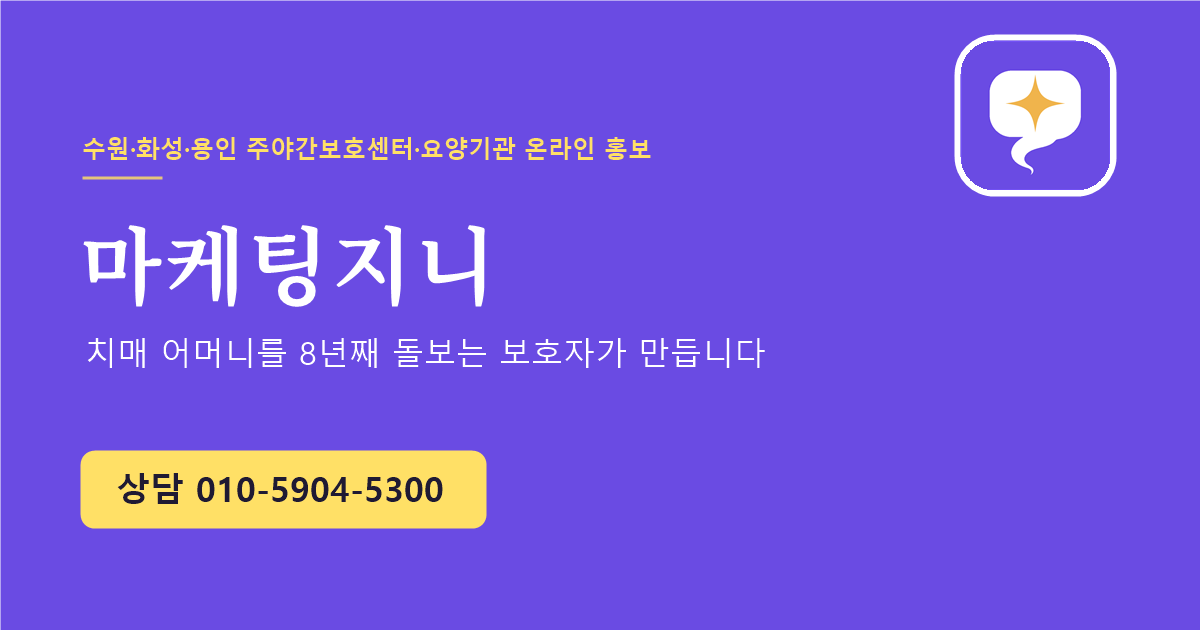
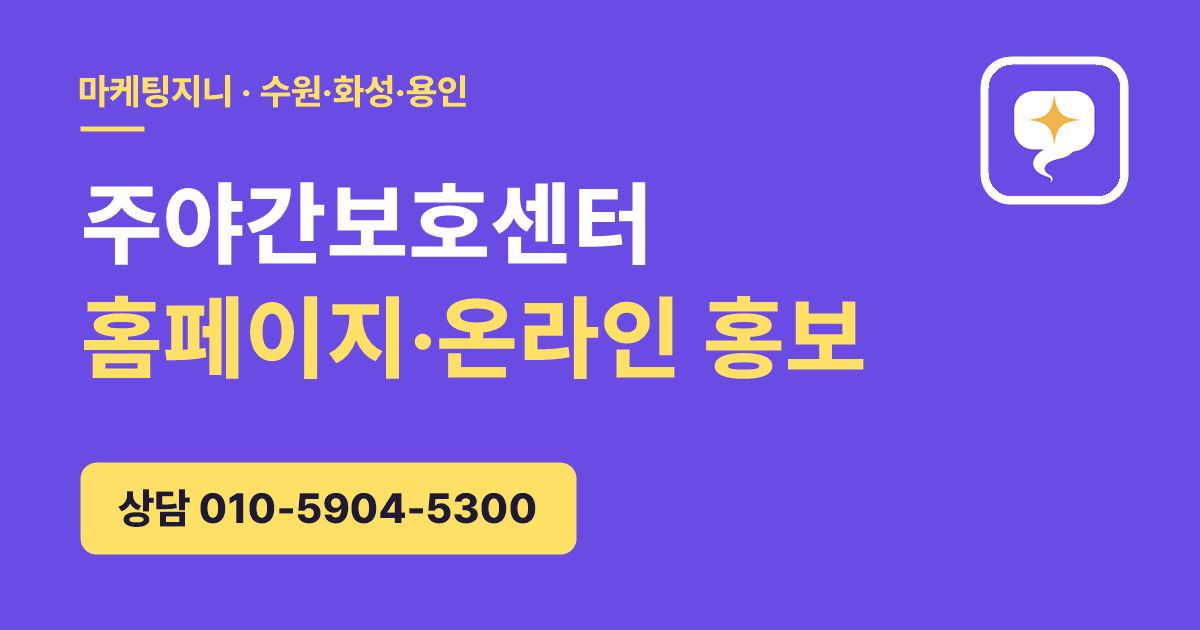
무료 수정 조건 통일(수가·식비 변경 1년 1회, 관리하는 동안 무료), 샘플 8가지 컨셉 문구, 카톡 미리보기 큰 글자판, 작업 노트 전체 보기 위치

Changed region(s): [[0.0617, 0.1206, 0.74, 0.6032], [0.0617, 0.6937, 0.4933, 0.9048], [0.7708, 0.0302, 0.9558, 0.3317]]

diff --git a/index.html b/index.html
@@ -9,11 +9,11 @@
 <link rel="icon" type="image/png" href="logo.png">
 <link rel="apple-touch-icon" href="logo.png">
 <meta name="description" content="수원·화성·용인 주야간보호센터·요양기관 온라인 홍보. 요양보호사 출신이자 치매 어머니를 8년째 돌보는 보호자인 마케터가 센터의 블로그·네이버 플레이스·홈페이지를 함께 정리합니다.">
-<!-- 카카오톡·문자로 링크를 보낼 때 보이는 미리보기 (2026-11-25 새 디자인: 보라 단색 og.png — 그림을 바꾸면 ?v= 날짜도 바꿉니다) -->
+<!-- 카카오톡·문자로 링크를 보낼 때 보이는 미리보기 (2026-11-26 큰 글자판: 보라 단색에 하는 일 두 줄 크게 — 홈페이지 폴더 make-og-main-big.ps1로 만듦, 2026-11-25 새 디자인: 보라 단색 og.png — 그림을 바꾸면 ?v= 날짜도 바꿉니다) -->
 <meta property="og:type" content="website">
 <meta property="og:url" content="https://marketingjini.com/">
-<meta property="og:image" content="https://marketingjini.com/og.png?v=20261125">
-<meta property="og:image:secure_url" content="https://marketingjini.com/og.png?v=20261125">
+<meta property="og:image" content="https://marketingjini.com/og.png?v=20261126">
+<meta property="og:image:secure_url" content="https://marketingjini.com/og.png?v=20261126">
 <meta property="og:image:type" content="image/png">
 <meta property="og:image:width" content="1200">
 <meta property="og:image:height" content="630">
@@ -491,7 +491,8 @@
   font-size: clamp(22px, 6vw, 30px); line-height: 1.45; letter-spacing: -.02em;
 }
 #jini .note a:hover .note-title, #jini .note a:focus-visible .note-title { text-decoration: underline; text-decoration-thickness: 2px; text-underline-offset: 6px; }
-#jini .notes-all { margin-top: 32px; font-size: 19px; }
+#jini .notes-head { display: flex; flex-wrap: wrap; align-items: flex-end; justify-content: space-between; gap: 14px 32px; }
+#jini .notes-all { margin: 0; font-size: 19px; white-space: nowrap; }
 /* 더보기 대신 + 버튼 (2026-11-26 사용자 의견, 자주 묻는 질문의 + 와 같은 모양) */
 #jini .note-go { flex: none; display: grid; place-items: center; width: 46px; height: 46px; border: 2px solid var(--ink); border-radius: 50%; background: var(--white); font-family: 'Noto Serif KR', serif; font-size: 28px; font-weight: 700; line-height: 1; color: var(--violet); transition: background-color .15s, color .15s; }
 #jini .note a:hover .note-go, #jini .note a:focus-visible .note-go { background: var(--violet); border-color: var(--violet); color: var(--white); }
@@ -754,7 +755,7 @@
       {"@type": "Question", "name": "도메인과 블로그·플레이스 계정은 누구 이름으로 하나요? 비밀번호를 알려 드려야 하나요?", "acceptedAnswer": {"@type": "Answer", "text": "블로그·플레이스는 센터가 지금 쓰는 계정을 그대로 쓰고, 도메인도 센터 이름으로 사시도록 안내해 드려요. 플레이스는 네이버의 공식 매니저 초대 기능으로 함께 관리할 수 있어 비밀번호를 받지 않아도 돼요. 홈페이지를 어디에 두고 누가 관리할지, 나중에 넘겨받는 방법은 시작 전에 문서로 정해 드립니다."}},
       {"@type": "Question", "name": "홍보 글 문구가 법에 걸리지는 않나요?", "acceptedAnswer": {"@type": "Answer", "text": "본인부담금을 면제하거나 깎아 주는 것은 노인장기요양보험법 제35조에서 금지하고 있어, 그렇게 읽힐 수 있는 문구는 쓰지 않아요. ‘최고·1위·보장’ 같은 과장 표현도 넣지 않고, 올리기 전에 센터장님과 함께 확인합니다. 다만 법률 자문은 아니에요."}},
       {"@type": "Question", "name": "도메인이 뭔가요? 꼭 사야 하나요?", "acceptedAnswer": {"@type": "Answer", "text": "도메인은 홈페이지 주소예요(예: ○○daycare.com). 센터 이름으로 1년 단위로 사서 쓰고, 보통 1년에 2~3만 원 안팎이에요. 센터 이름으로 사 두면 명함·전단·플레이스에 적기 쉽고, 나중에 다른 업체에 맡기셔도 주소가 그대로 센터에 남아요. 사는 방법은 화면을 보며 함께 안내해 드려요."}},
-      {"@type": "Question", "name": "홈페이지를 만든 뒤 비용이 바뀌면요?", "acceptedAnswer": {"@type": "Answer", "text": "매년 바뀌는 장기요양 수가는 마케팅지니가 관리하는 동안 무료로 반영해 드려요. 식재료비·간식비 변경(1년에 2번까지)과 전화번호·운영 시간 같은 기본 정보 오류 수정도 무료예요. 사진·프로그램 바꾸기, 페이지·기능 추가, 디자인 변경은 따로 안내해 드리거나 월간 관리에 포함돼요. 계산기 금액은 예상 금액이라 실제와 다를 수 있어요."}}
+      {"@type": "Question", "name": "홈페이지를 만든 뒤 비용이 바뀌면요?", "acceptedAnswer": {"@type": "Answer", "text": "매년 바뀌는 장기요양 수가와 식재료비·간식비 변경(1년 1회)은 마케팅지니가 관리하는 동안 무료로 반영해 드려요. 전화번호·운영 시간 같은 기본 정보 오류 수정도 무료예요. 사진·프로그램 바꾸기, 페이지·기능 추가, 디자인 변경은 따로 안내해 드리거나 월간 관리에 포함돼요. 계산기 금액은 예상 금액이라 실제와 다를 수 있어요."}}
       ]
     }
   ]
@@ -884,8 +885,8 @@ if (!window.matchMedia('(prefers-reduced-motion: reduce)').matches) document.get
       </ul>
     </div>
     <div class="sample-notes">
-      <p>색 조합은 8가지 중에서 센터 분위기에 맞게 골라요.</p>
-      <p>매년 바뀌는 장기요양 수가와 식비·간식비 변경은 <strong class="hl">마케팅지니가 관리하는 동안 무료로 고쳐 드려요.</strong></p>
+      <p>8가지 컨셉 중에서 센터 분위기에 맞게 선택해요.</p>
+      <p>장기요양 수가·식비 변경(1년 1회)은 <strong class="hl"><span class="nw">마케팅지니가 관리하는 동안</span> <span class="nw">무료로 수정해 드려요.</span></strong></p>
       <p><a class="tl hl" href="https://marketingjini.com/sample/">샘플 홈페이지 직접 보기</a></p>
       <p class="fine">샘플 화면입니다. 센터 이름·전화·주소·비용은 예시이며, 샘플 페이지의 사진은 AI로 만든 그림으로 실제 인물이 아닙니다.</p>
     </div>
@@ -1008,7 +1009,11 @@ if (!window.matchMedia('(prefers-reduced-motion: reduce)').matches) document.get
 <section class="sec sec-yellow" id="notes" aria-labelledby="notes-title">
   <div class="wrap">
     <h2 class="big big--4" id="notes-title" data-rv>작업 노트</h2>
-    <p class="h2">센터장님이 묻는 질문에<br>글로 답합니다.</p>
+    <!-- 소개 문구 옆에 '전체 보기' (2026-11-26 사용자 요청 — PC는 오른쪽 끝에 문구 마지막 줄과 나란히, 휴대폰은 폭이 좁아 문구 바로 아래) -->
+    <div class="notes-head">
+      <p class="h2">센터장님이 묻는 질문에<br>글로 답합니다.</p>
+      <p class="notes-all"><a class="tl" href="https://marketingjini.com/notes/">작업 노트 전체 보기</a></p>
+    </div>
     <!-- 최신 4편만 보이고(5번째부터는 CSS로 숨김), 전체 목록은 notes/ 페이지 — 새 글은 맨 위에 한 줄 더하고 notes/index.html 목록에도 추가 -->
     <ul class="notes-list">
       <li class="note"><a href="https://marketingjini.com/notes/place-photos/"><span class="note-title">네이버 플레이스 사진, 어떤 순서로 올려야 보호자가 안심할까요?</span><span class="note-go" aria-hidden="true">+</span></a></li>
@@ -1016,7 +1021,6 @@ if (!window.matchMedia('(prefers-reduced-motion: reduce)').matches) document.get
       <li class="note"><a href="https://marketingjini.com/notes/no-inquiry/"><span class="note-title">블로그 글을 꾸준히 쓰는데 왜 문의가 없을까요?</span><span class="note-go" aria-hidden="true">+</span></a></li>
       <li class="note"><a href="https://marketingjini.com/notes/naver-blog-ai/"><span class="note-title">네이버 블로그만 있으면 왜 ChatGPT에 우리 센터가 잘 안 나올까요?</span><span class="note-go" aria-hidden="true">+</span></a></li>
     </ul>
-    <p class="notes-all"><a class="tl" href="https://marketingjini.com/notes/">작업 노트 전체 보기</a></p>
   </div>
 </section>
 
@@ -1047,7 +1051,7 @@ if (!window.matchMedia('(prefers-reduced-motion: reduce)').matches) document.get
           <details class="qa"><summary>도메인과 블로그·플레이스 계정은 누구 이름으로 하나요? 비밀번호를 알려 드려야 하나요?</summary><p>블로그·플레이스는 센터가 지금 쓰는 계정을 그대로 쓰고, 도메인도 센터 이름으로 사시도록 안내해 드려요. 플레이스는 네이버의 공식 매니저 초대 기능으로 함께 관리할 수 있어 비밀번호를 받지 않아도 돼요. 홈페이지를 어디에 두고 누가 관리할지, 나중에 넘겨받는 방법은 시작 전에 문서로 정해 드립니다.</p></details>
           <details class="qa"><summary>홍보 글 문구가 법에 걸리지는 않나요?</summary><p>본인부담금을 면제하거나 깎아 주는 것은 노인장기요양보험법 제35조에서 금지하고 있어, 그렇게 읽힐 수 있는 문구는 쓰지 않아요. ‘최고·1위·보장’ 같은 과장 표현도 넣지 않고, 올리기 전에 센터장님과 함께 확인합니다. 다만 법률 자문은 아니에요.</p></details>
           <details class="qa"><summary>도메인이 뭔가요? 꼭 사야 하나요?</summary><p>도메인은 홈페이지 주소예요(예: ○○daycare.com). 센터 이름으로 1년 단위로 사서 쓰고, 보통 1년에 2~3만 원 안팎이에요. 센터 이름으로 사 두면 명함·전단·플레이스에 적기 쉽고, 나중에 다른 업체에 맡기셔도 주소가 그대로 센터에 남아요. 사는 방법은 화면을 보며 함께 안내해 드려요.</p></details>
-          <details class="qa"><summary>홈페이지를 만든 뒤 비용이 바뀌면요?</summary><p>매년 바뀌는 장기요양 수가는 마케팅지니가 관리하는 동안 무료로 반영해 드려요. 식재료비·간식비 변경(1년에 2번까지)과 전화번호·운영 시간 같은 기본 정보 오류 수정도 무료예요. 사진·프로그램 바꾸기, 페이지·기능 추가, 디자인 변경은 따로 안내해 드리거나 월간 관리에 포함돼요. 계산기 금액은 예상 금액이라 실제와 다를 수 있어요.</p></details>
+          <details class="qa"><summary>홈페이지를 만든 뒤 비용이 바뀌면요?</summary><p>매년 바뀌는 장기요양 수가와 식재료비·간식비 변경(1년 1회)은 마케팅지니가 관리하는 동안 무료로 반영해 드려요. 전화번호·운영 시간 같은 기본 정보 오류 수정도 무료예요. 사진·프로그램 바꾸기, 페이지·기능 추가, 디자인 변경은 따로 안내해 드리거나 월간 관리에 포함돼요. 계산기 금액은 예상 금액이라 실제와 다를 수 있어요.</p></details>
         </div>
       </details>
       <p class="ask-link"><a class="tl" href="https://pf.kakao.com/_rxeExeX/chat" target="_blank" rel="noopener">카톡으로 물어보기</a> · <a class="tl" href="https://marketingjini.com/service/">A4 안내지로 보기</a></p>

diff --git a/service/index.html b/service/index.html
@@ -243,7 +243,7 @@
         <span class="plan-no" aria-hidden="true">01</span>
         <h3 class="plan-name">센터 홈페이지</h3>
         <p class="plan-price">25만 원</p>
-        <p class="plan-desc">본인부담금 계산기·송영·오시는 길·전화를 한 페이지에 담아 플레이스에 연결해요. 수가·식비 변경은 관리하는 동안 무료. 도메인 별도(1년 2~3만 원 안팎).</p>
+        <p class="plan-desc">본인부담금 계산기·송영·오시는 길·전화를 한 페이지에 담아 플레이스에 연결해요. 수가·식비 변경(1년 1회)은 관리하는 동안 무료. 도메인 별도(1년 2~3만 원 안팎).</p>
       </li>
       <li class="plan">
         <span class="plan-no" aria-hidden="true">02</span>
